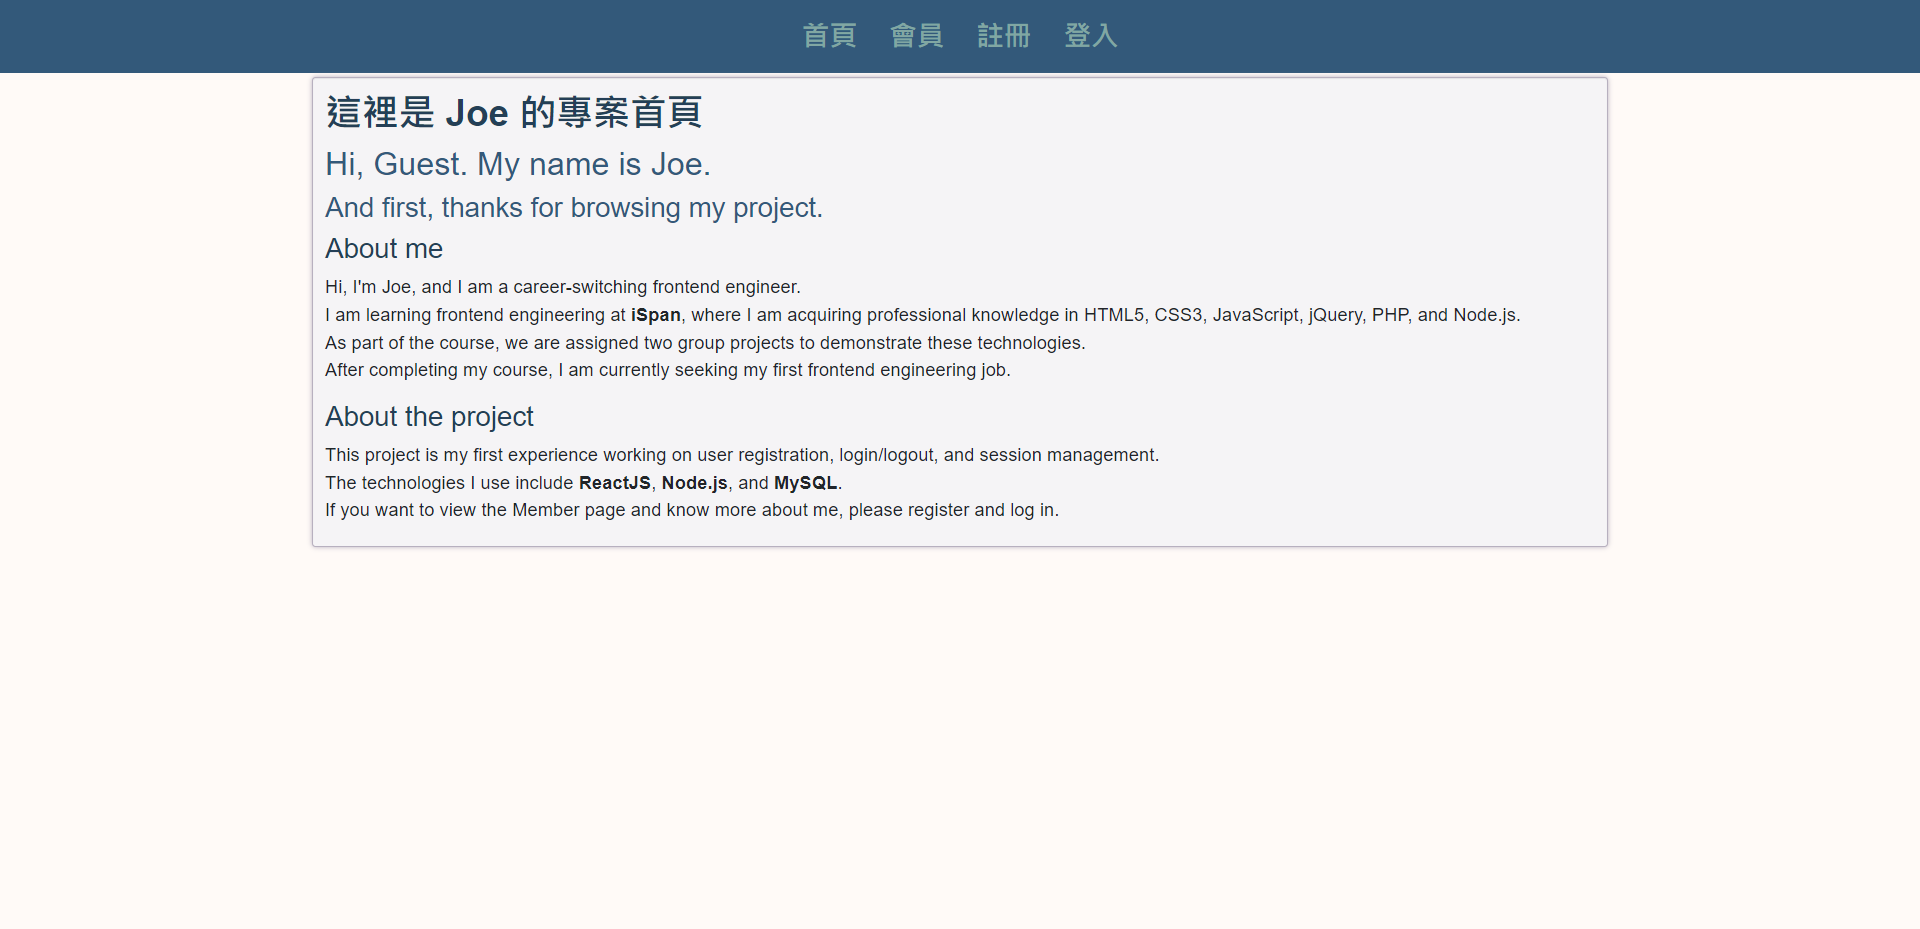
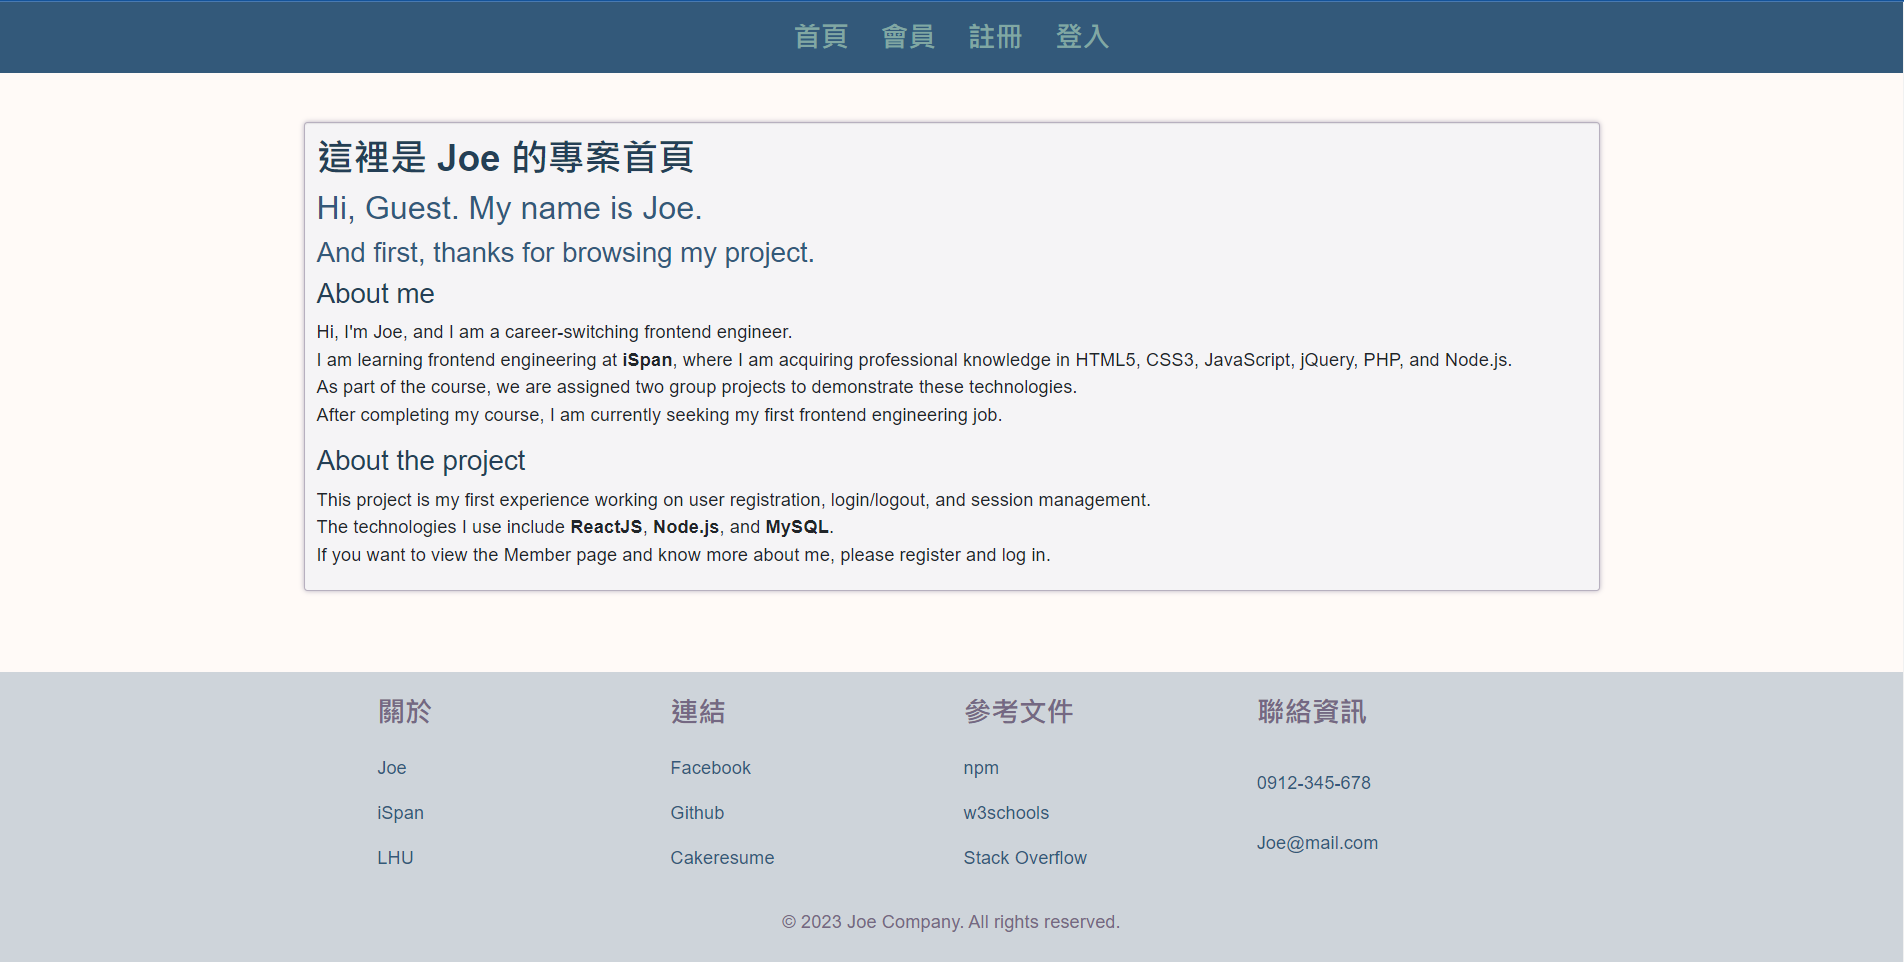
footer 完成

diff --git a/my_web/register-login/my-app/src/Components/Items/footerItem.js b/my_web/register-login/my-app/src/Components/Items/footerItem.js
@@ -1,23 +1,39 @@
 const FooterItem = [
   {
-    title: 'Accordion1',
+    title: '關於',
     content:
       'Lorem Ipsum is simply dummy text of the printing and typesetting industry. Lorem Ipsum has been the industrys standard dummy text ever since the 1500s, when an unknown printer took a galley of type and scrambled it to make a type specimen book. It has survived not only five centuries, but also the leap into electronic typesetting, remaining essentially unchanged. It was popularised in the 1960s with the release of Letraset sheets containing Lorem Ipsum passages, and more recently with desktop publishing software like Aldus PageMaker including versions of Lorem Ipsum',
+    subItem: [
+      { title: 'Joe', to: '/user' },
+      { title: 'iSpan', to: 'https://www.ispan.com.tw/' },
+      { title: 'LHU', to: 'https://www.lhu.edu.tw/index2.asp' },
+    ],
   },
   {
-    title: 'Accordion2',
+    title: '連結',
     content:
       'Lorem Ipsum is simply dummy text of the printing and typesetting industry. Lorem Ipsum has been the industrys standard dummy text ever since the 1500s, when an unknown printer took a galley of type and scrambled it to make a type specimen book. It has survived not only five centuries, but also the leap into electronic typesetting, remaining essentially unchanged. It was popularised in the 1960s with the release of Letraset sheets containing Lorem Ipsum passages, and more recently with desktop publishing software like Aldus PageMaker including versions of Lorem Ipsum',
+    subItem: [
+      { title: 'Facebook', to: '/user' },
+      { title: 'Github', to: '/user' },
+      { title: 'Cakeresume', to: '/user' },
+    ],
   },
   {
-    title: 'Accordion3',
+    title: '參考文件',
     content:
       'Lorem Ipsum is simply dummy text of the printing and typesetting industry. Lorem Ipsum has been the industrys standard dummy text ever since the 1500s, when an unknown printer took a galley of type and scrambled it to make a type specimen book. It has survived not only five centuries, but also the leap into electronic typesetting, remaining essentially unchanged. It was popularised in the 1960s with the release of Letraset sheets containing Lorem Ipsum passages, and more recently with desktop publishing software like Aldus PageMaker including versions of Lorem Ipsum',
+    subItem: [
+      { title: 'npm', to: 'https://www.npmjs.com/' },
+      { title: 'w3schools', to: 'https://www.w3schools.com/' },
+      { title: 'Stack Overflow', to: 'https://stackoverflow.com/' },
+    ],
   },
   {
-    title: 'Accordion4',
+    title: '聯絡資訊',
     content:
       'Lorem Ipsum is simply dummy text of the printing and typesetting industry. Lorem Ipsum has been the industrys standard dummy text ever since the 1500s, when an unknown printer took a galley of type and scrambled it to make a type specimen book. It has survived not only five centuries, but also the leap into electronic typesetting, remaining essentially unchanged. It was popularised in the 1960s with the release of Letraset sheets containing Lorem Ipsum passages, and more recently with desktop publishing software like Aldus PageMaker including versions of Lorem Ipsum',
+    subItem: [{ title: '0912-345-678' }, { title: 'Joe@mail.com' }],
   },
 ];
 

diff --git a/my_web/register-login/my-app/src/Components/Footer.js b/my_web/register-login/my-app/src/Components/Footer.js
@@ -2,6 +2,7 @@ import React from 'react';
 import { useState } from 'react';
 import FooterItem from './Items/footerItem';
 import '../Style/footer.scss';
+import { Link } from 'react-router-dom';
 function Footer() {
   const [selected, setSelected] = useState(null);
 
@@ -34,17 +35,28 @@ function Footer() {
           );
         })}
       </div>
-      <div className="footer d-none d-lg-flex justify-content-between">
+      <div className="footer d-none d-lg-flex row justify-content-center">
         {FooterItem.map((item, i) => {
           return (
-            <ul key={i} className="list-unstyled row">
-              <li>{item.title}</li>
-              <li>{item.title}</li>
-              <li>{item.title}</li>
-              <li>{item.title}</li>
-            </ul>
+            <div key={i} className="col-2 d-flex row text-start">
+              <h4 className="fw-bold mt-4">{item.title}</h4>
+              {item.subItem.map((subItem, i) => (
+                <Link
+                  to={subItem.to}
+                  key={i}
+                  className="mt-2 text-info text-decoration-none"
+                >
+                  {subItem.title}
+                </Link>
+              ))}
+            </div>
           );
         })}
+        <div className="mt-2 row justify-content-center align-items-center">
+          <div className="col">
+            <p>&copy; 2023 Joe Company. All rights reserved.</p>
+          </div>
+        </div>
       </div>
     </div>
   );

diff --git a/my_web/register-login/my-app/src/Style/footer.scss b/my_web/register-login/my-app/src/Style/footer.scss
@@ -16,7 +16,7 @@
   justify-content: center;
   align-items: center;
   background-color: #ced4da;
-  border-top: 2px solid #00afcc;
+  // border-top: 2px solid #00afcc;
   @include mobile() {
     width: auto;
     height: auto;
@@ -35,7 +35,7 @@
       padding: 10px 20px;
 
       .title {
-        color: #85662b;
+        color: #746883;
         display: flex;
         justify-content: space-between;
         align-items: center;
@@ -59,20 +59,15 @@
     }
   }
   .footer {
-    width: auto;
+    width: 100%;
     @include mobile() {
       width: auto;
     }
-    height: 260px;
+    background-color: #ced4da;
+    height: 31vh;
     text-align: center;
-    ul {
-      width: 260px;
-      margin: 10px 5px 0 5px;
-    }
-    ul li {
-      text-align: center;
-      padding: 15px 0 0 0;
-      border-bottom: 2px solid black;
-    }
+    color: #746883;
+    text-shadow: -1px -1px 0 #ced4da, 1px -1px 0 #ced4da, -1px 1px 0 #ced4da,
+      1px 1px 0 #ced4da;
   }
 }

diff --git a/my_web/register-login/my-app/src/Style/global.scss b/my_web/register-login/my-app/src/Style/global.scss
@@ -86,6 +86,7 @@ body {
 
   height: 100%;
   margin: 0;
+  // display: flex;
   @include mobile() {
     display: flex;
   }
